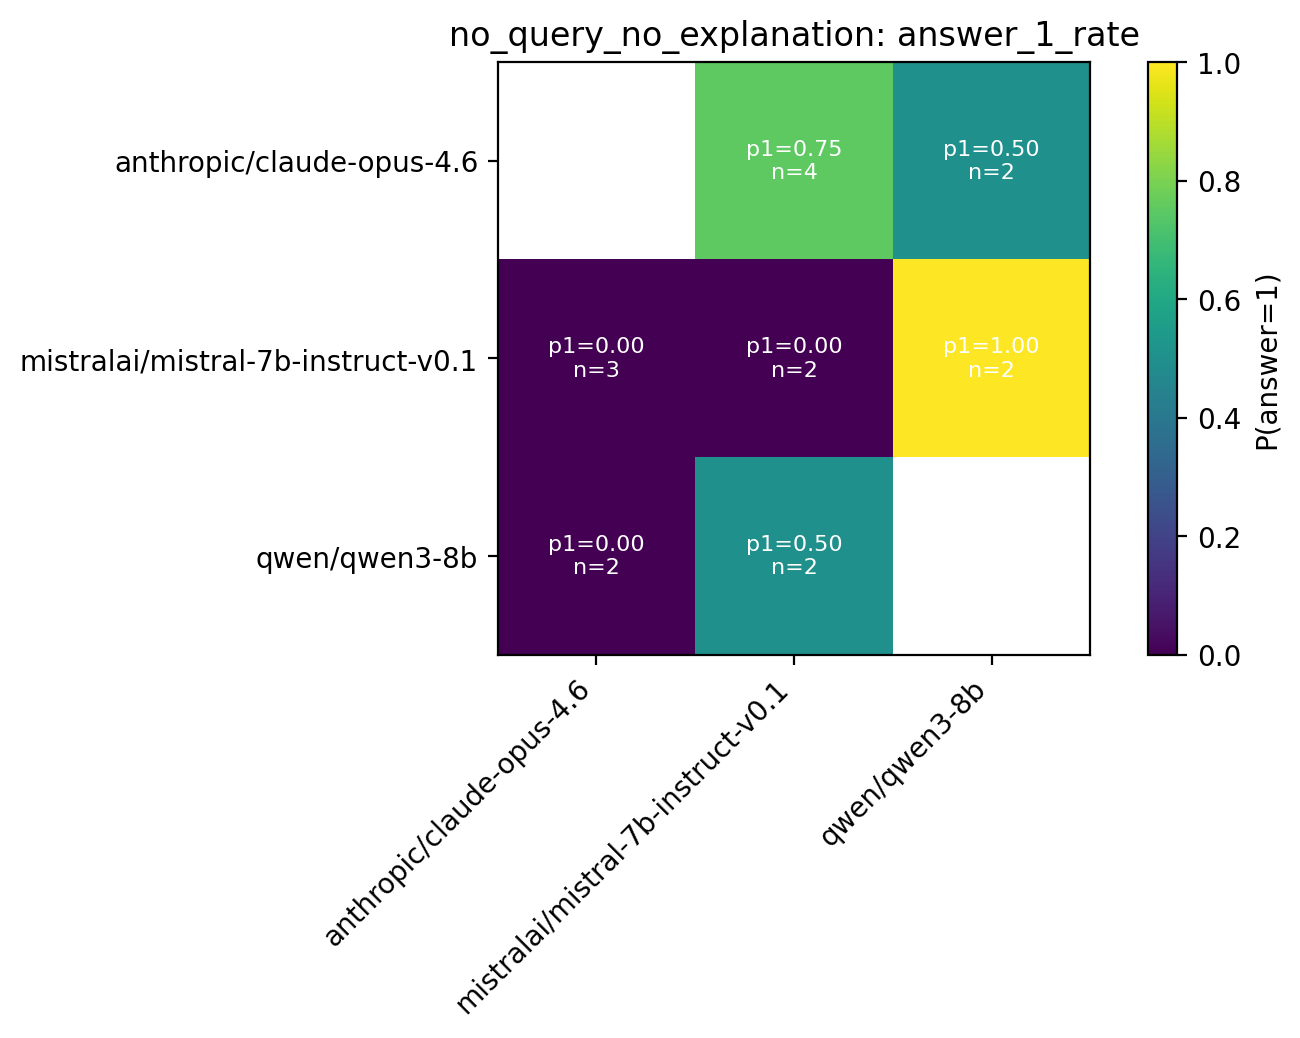
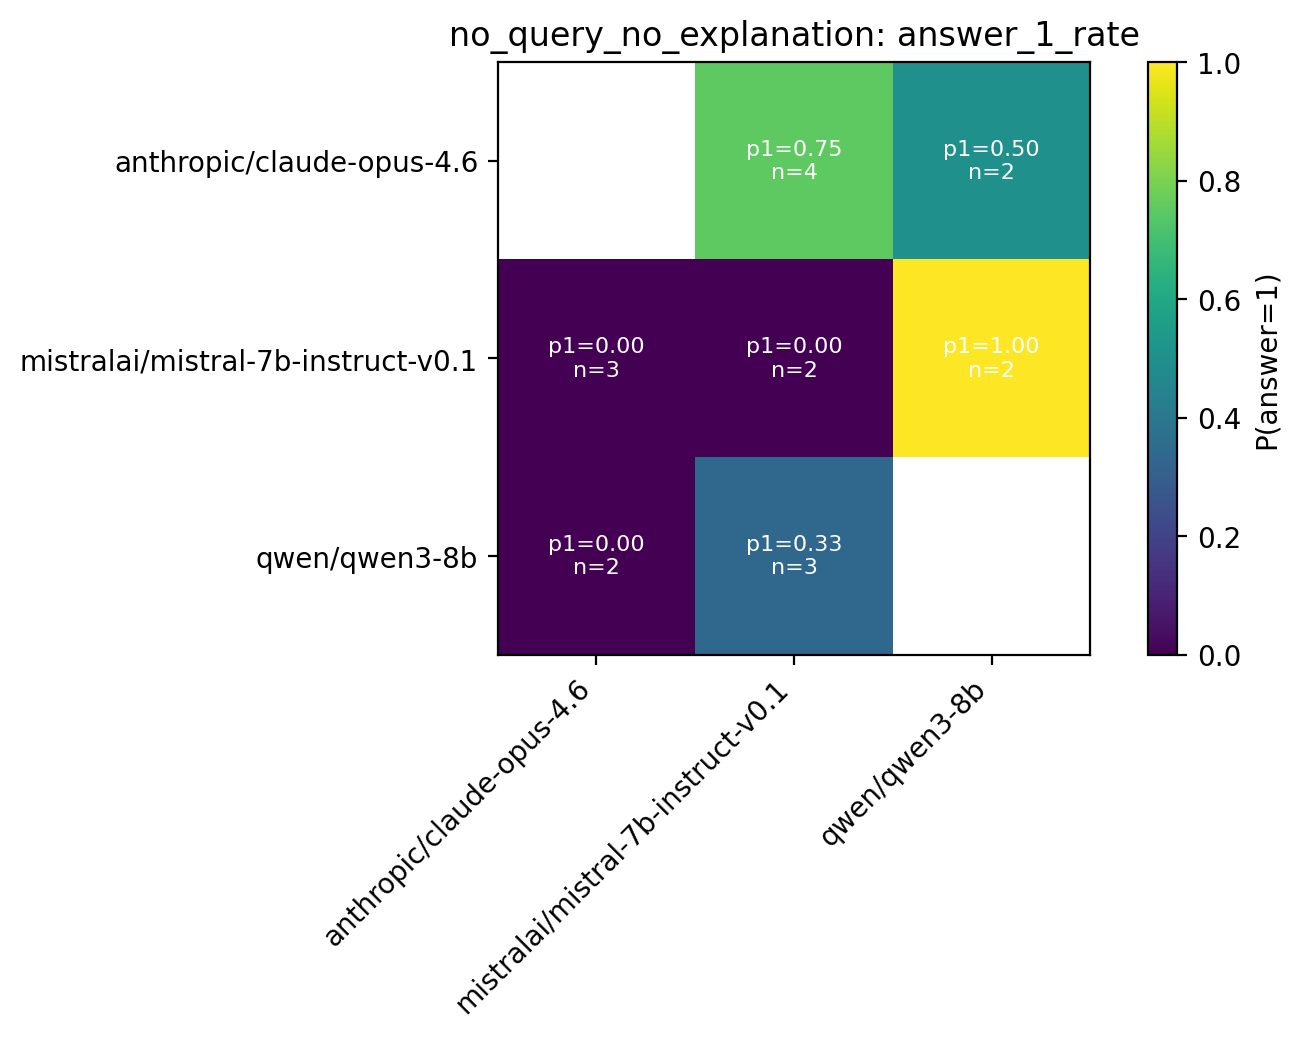
feat: fold slurm hf results into summary tables

Changed region(s): [[0.5231, 0.4316, 0.7077, 0.6474]]

diff --git a/tests/test_render_results_summary.py b/tests/test_render_results_summary.py
@@ -76,7 +76,7 @@ def test_summarize_rows_aggregates_trials(tmp_path: Path):
         ],
     )
 
-    csv_paths = discover_result_csvs(tmp_path)
+    csv_paths = discover_result_csvs([tmp_path])
     rows = load_rows(csv_paths)
     summary = summarize_rows(rows)
 
@@ -103,3 +103,51 @@ def test_summarize_rows_aggregates_trials(tmp_path: Path):
     assert second["answer_1_rate"] == 1.0
     assert second["mean_turns"] == 5
     assert second["mean_specimen_turns"] == 3
+
+
+def test_discover_result_csvs_accepts_multiple_roots(tmp_path: Path):
+    first_root = tmp_path / "results"
+    second_root = tmp_path / "artifacts"
+    _write_results_csv(
+        first_root / "run_a" / "results.csv",
+        [
+            {
+                "trial_id": 0,
+                "actor_model": "model-a",
+                "distinguisher_model": "model-b",
+                "success": True,
+                "turns": 2,
+                "answer": 1,
+                "transcript_path": "a.json",
+                "condition": "no_query_no_explanation",
+                "reasoning": None,
+                "specimen_turns": None,
+            }
+        ],
+    )
+    _write_results_csv(
+        second_root / "run_b" / "results.csv",
+        [
+            {
+                "trial_id": 0,
+                "actor_model": "model-c",
+                "distinguisher_model": "model-d",
+                "success": True,
+                "turns": 3,
+                "answer": 0,
+                "transcript_path": "b.json",
+                "condition": "yes_query_no_explanation",
+                "reasoning": None,
+                "specimen_turns": None,
+            }
+        ],
+    )
+
+    csv_paths = discover_result_csvs([first_root, second_root])
+
+    assert csv_paths == sorted(
+        [
+            first_root / "run_a" / "results.csv",
+            second_root / "run_b" / "results.csv",
+        ]
+    )

diff --git a/scripts/render_results_summary.py b/scripts/render_results_summary.py
@@ -16,8 +16,11 @@ matplotlib.use("Agg")
 import matplotlib.pyplot as plt
 
 
-def discover_result_csvs(results_root: Path) -> List[Path]:
-    return sorted(results_root.glob("**/results.csv"))
+def discover_result_csvs(results_roots: Iterable[Path]) -> List[Path]:
+    csv_paths = set()
+    for results_root in results_roots:
+        csv_paths.update(results_root.glob("**/results.csv"))
+    return sorted(csv_paths)
 
 
 def load_rows(csv_paths: Iterable[Path]) -> List[Dict[str, str]]:
@@ -177,15 +180,16 @@ def render_condition_heatmaps(summary_rows: List[Dict[str, object]], output_dir:
 
 def main() -> int:
     parser = argparse.ArgumentParser()
-    parser.add_argument("--results-root", default="results")
+    parser.add_argument("--input-root", action="append", dest="input_roots")
     parser.add_argument("--output-dir", default="results/summary")
     args = parser.parse_args()
 
-    results_root = Path(args.results_root)
+    input_roots = [Path(root) for root in (args.input_roots or ["results"])]
     output_dir = Path(args.output_dir)
-    csv_paths = discover_result_csvs(results_root)
+    csv_paths = discover_result_csvs(input_roots)
     if not csv_paths:
-        raise SystemExit(f"No results.csv files found under {results_root}")
+        formatted_roots = ", ".join(str(root) for root in input_roots)
+        raise SystemExit(f"No results.csv files found under: {formatted_roots}")
 
     rows = load_rows(csv_paths)
     summary_rows = summarize_rows(rows)
@@ -194,6 +198,7 @@ def main() -> int:
     heatmaps = render_condition_heatmaps(summary_rows, output_dir)
 
     print(f"Loaded {len(rows)} trial rows from {len(csv_paths)} CSV files")
+    print(f"Input roots: {', '.join(str(root) for root in input_roots)}")
     print(f"Wrote {output_dir / 'summary.csv'}")
     print(f"Wrote {output_dir / 'summary_table.png'}")
     for path in heatmaps:

diff --git a/PROGRESS.md b/PROGRESS.md
@@ -1,6 +1,6 @@
 # Codex Autonomous Progress
 
-**Last updated:** 2026-04-08T19:22:30Z
+**Last updated:** 2026-04-08T19:31:35Z
 **Session:** 1
 **Status:** COMPLETE
 **Current step:** Follow-up enhancements after initial acceptance
@@ -42,6 +42,7 @@
 - 2026-04-08: Used Slurm on `pi_tpoggio` for the live HF validation path, following the cluster guidance that GPU workloads must run on compute nodes rather than the login node.
 - 2026-04-08: Used a public HF repo (`Qwen/Qwen2.5-7B-Instruct`) for the first live GPU validation, so the user-provided HF token was not needed for this smoke and was not written into the repo or batch script.
 - 2026-04-08: Wrote Slurm logs to `artifacts/slurm-logs/` and experiment outputs to `artifacts/hf-slurm-smoke/` because node-local `/tmp` is not visible back on the login node.
+- 2026-04-08: Expanded `scripts/render_results_summary.py` to accept multiple input roots so the tracked PNG/CSV summaries can combine the ignored `results/` tree with tracked Slurm artifacts under `artifacts/hf-slurm-smoke/`.
 
 ## Observations
 - Session 1 started from a clean `main` worktree with no existing `PROGRESS.md`.
@@ -68,6 +69,7 @@
 - Follow-up verification passed on Slurm: batch job `11559075` ran on `node3807` in partition `pi_tpoggio`, loaded the A100 GPU, built `apptainer/turing-eval-hf.def` via `--fakeroot`, verified `torch 2.4.1+cu121` and `transformers 4.45.2`, and completed with Slurm state `COMPLETED` / exit code `0:0`.
 - Live HF generation passed on Slurm: `load_backend("qwen2.5-7b", ..., force_backend="hf")` produced `HF_REPLY 'Tech leader, innovation hub.'` with `HF_DEVICE =0` on the A100.
 - Live mixed-backend smoke passed on Slurm: `run_experiment.py --actor qwen2.5-7b --actor-backend hf --distinguisher mistral-7b-v0.3 --condition no_query_no_explanation --num-trials 1` completed and wrote `artifacts/hf-slurm-smoke/qwen_hf_actor_vs_mistral_api_smoke/results.csv` plus `trial_000.json`.
+- Follow-up verification passed: `./scripts/run-in-container.sh env MPLCONFIGDIR=/tmp/matplotlib python scripts/render_results_summary.py --input-root results --input-root artifacts/hf-slurm-smoke --output-dir artifacts/results-summary` loaded 20 trial rows from 13 CSV files and regenerated the tracked summary CSV/PNGs with the Slurm HF smoke included.
 
 ## Blockers
 - (none)
